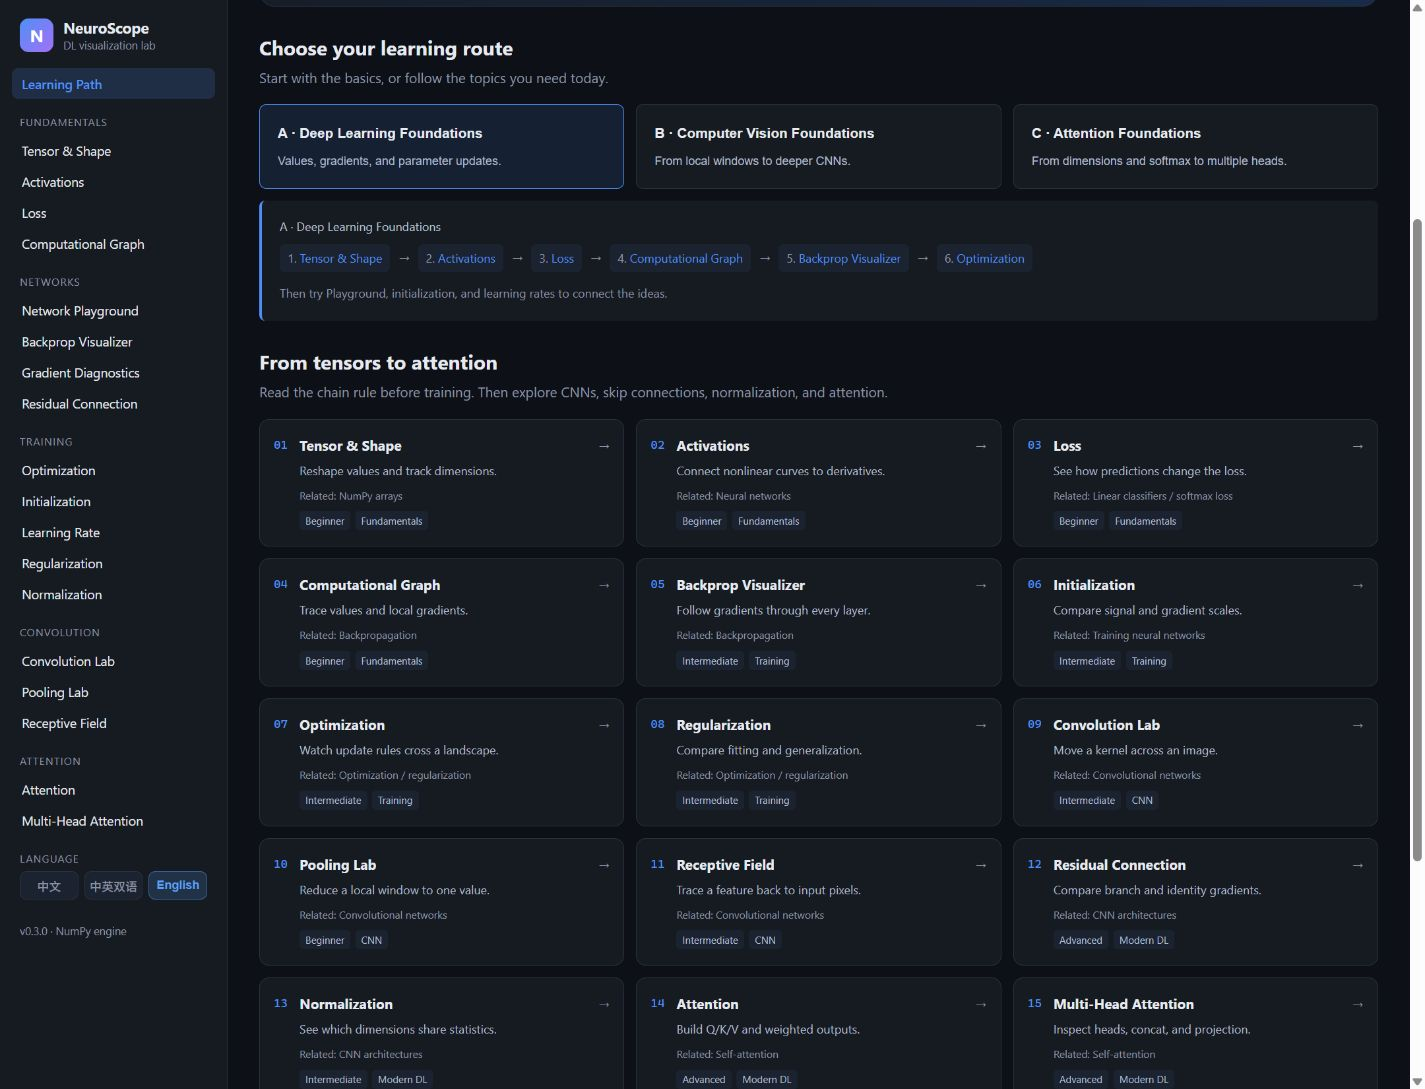
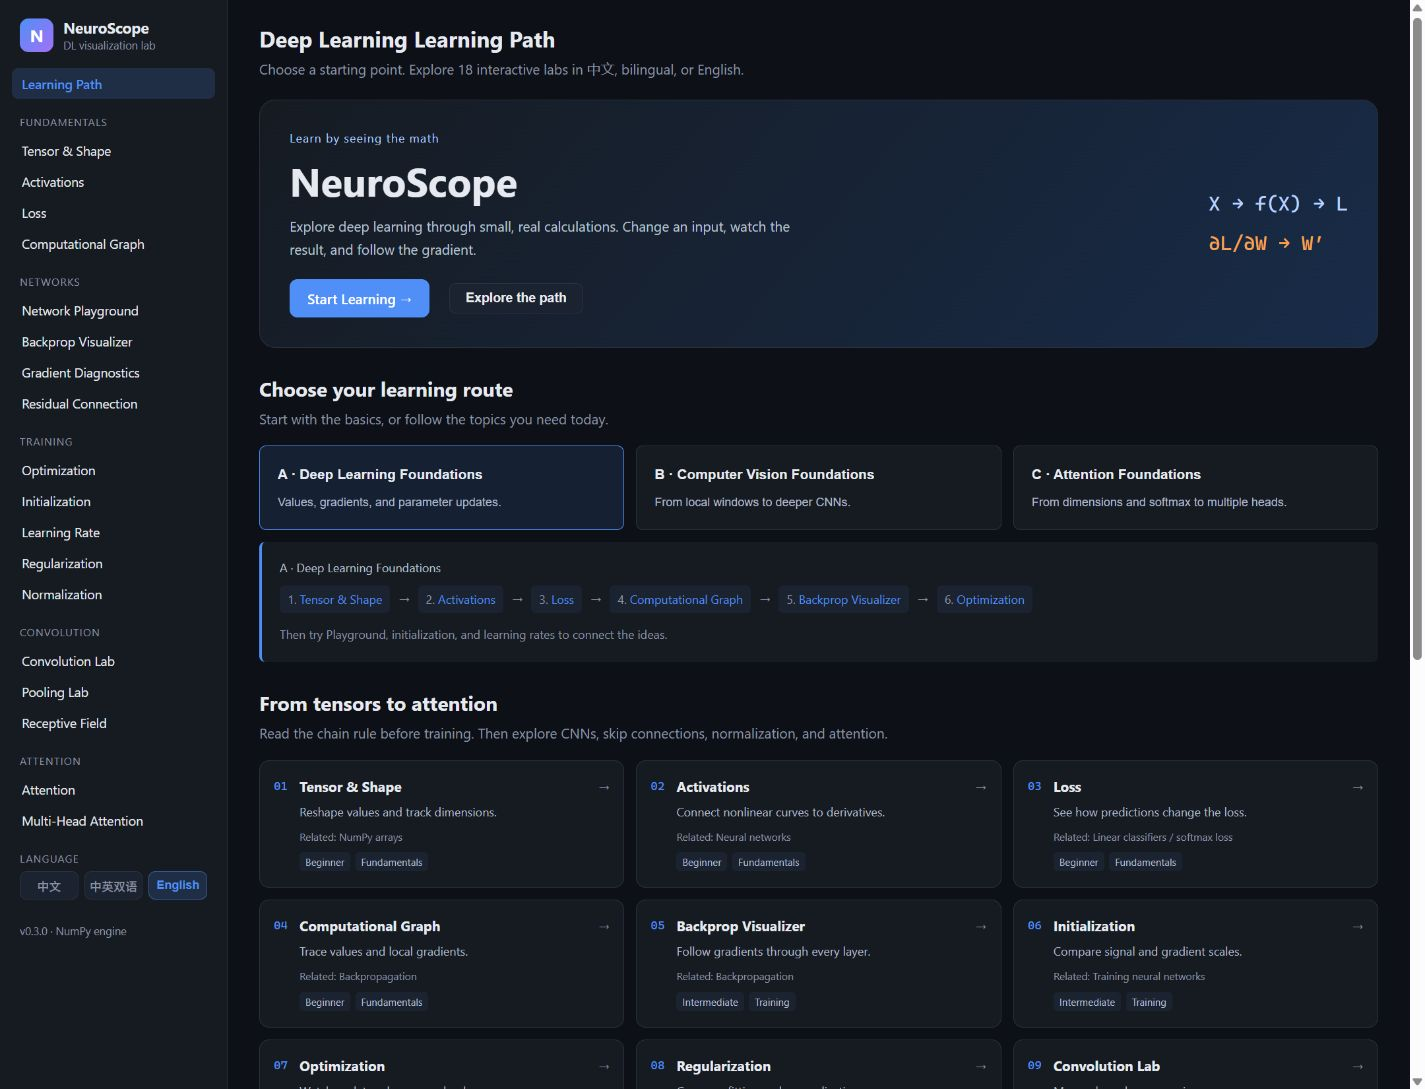
docs: show the complete home introduction in release screenshots

diff --git a/docs/RELEASE_VALIDATION_v0.3.0.md b/docs/RELEASE_VALIDATION_v0.3.0.md
@@ -99,9 +99,11 @@ Existing history was neither squashed nor overwritten.
 | `5823cea` | Mobile first-visit navigation UX |
 | `76e0c0a` | Product README, authentic assets, release/publishing/deployment guides |
 | `3ed32a5` | v0.3.0 metadata, local/CI validation alignment, ignore/contributing rules |
+| `e5bfbe3` | Completed measured release-preparation validation record |
 
-This report is committed in a final documentation-only commit; see Git history
-for its hash, avoiding a self-referential commit hash in the document.
+The closing asset-review commit refreshes both homepage captures to include
+the top-of-page explanation and Start Learning. See Git history for that hash,
+avoiding a self-referential commit hash in the document.
 
 ## Screenshots and demos
 
